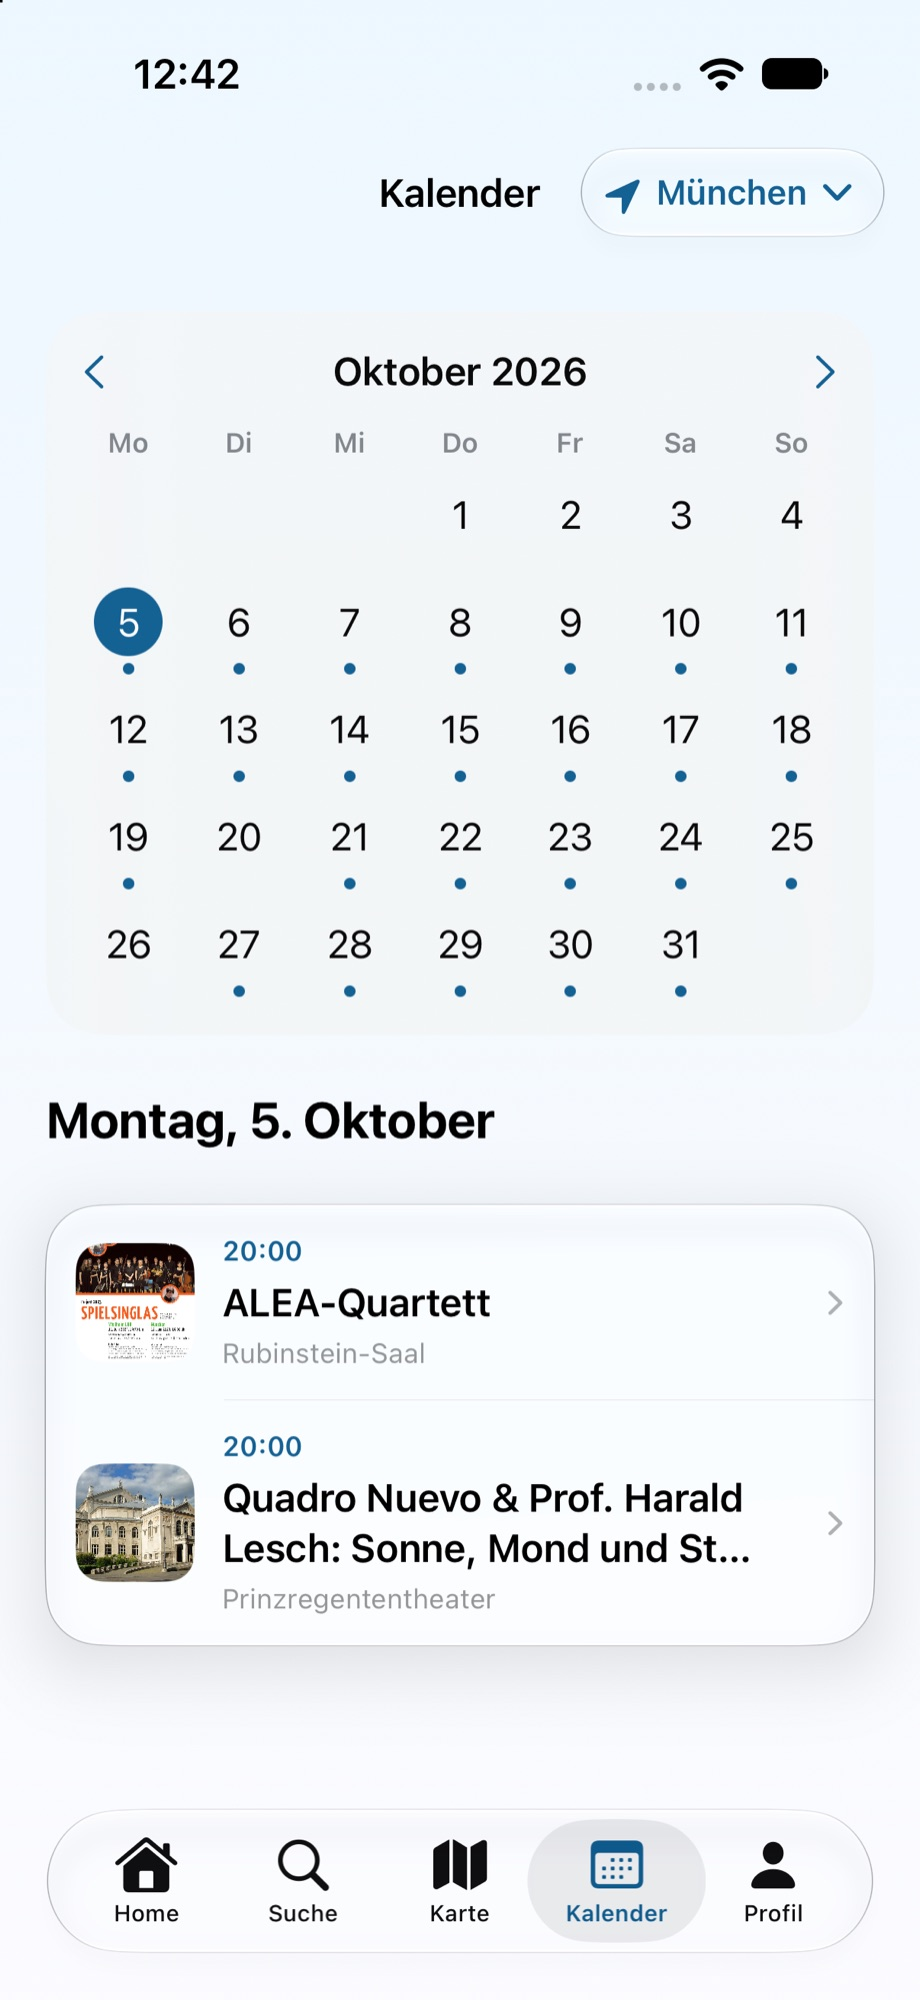
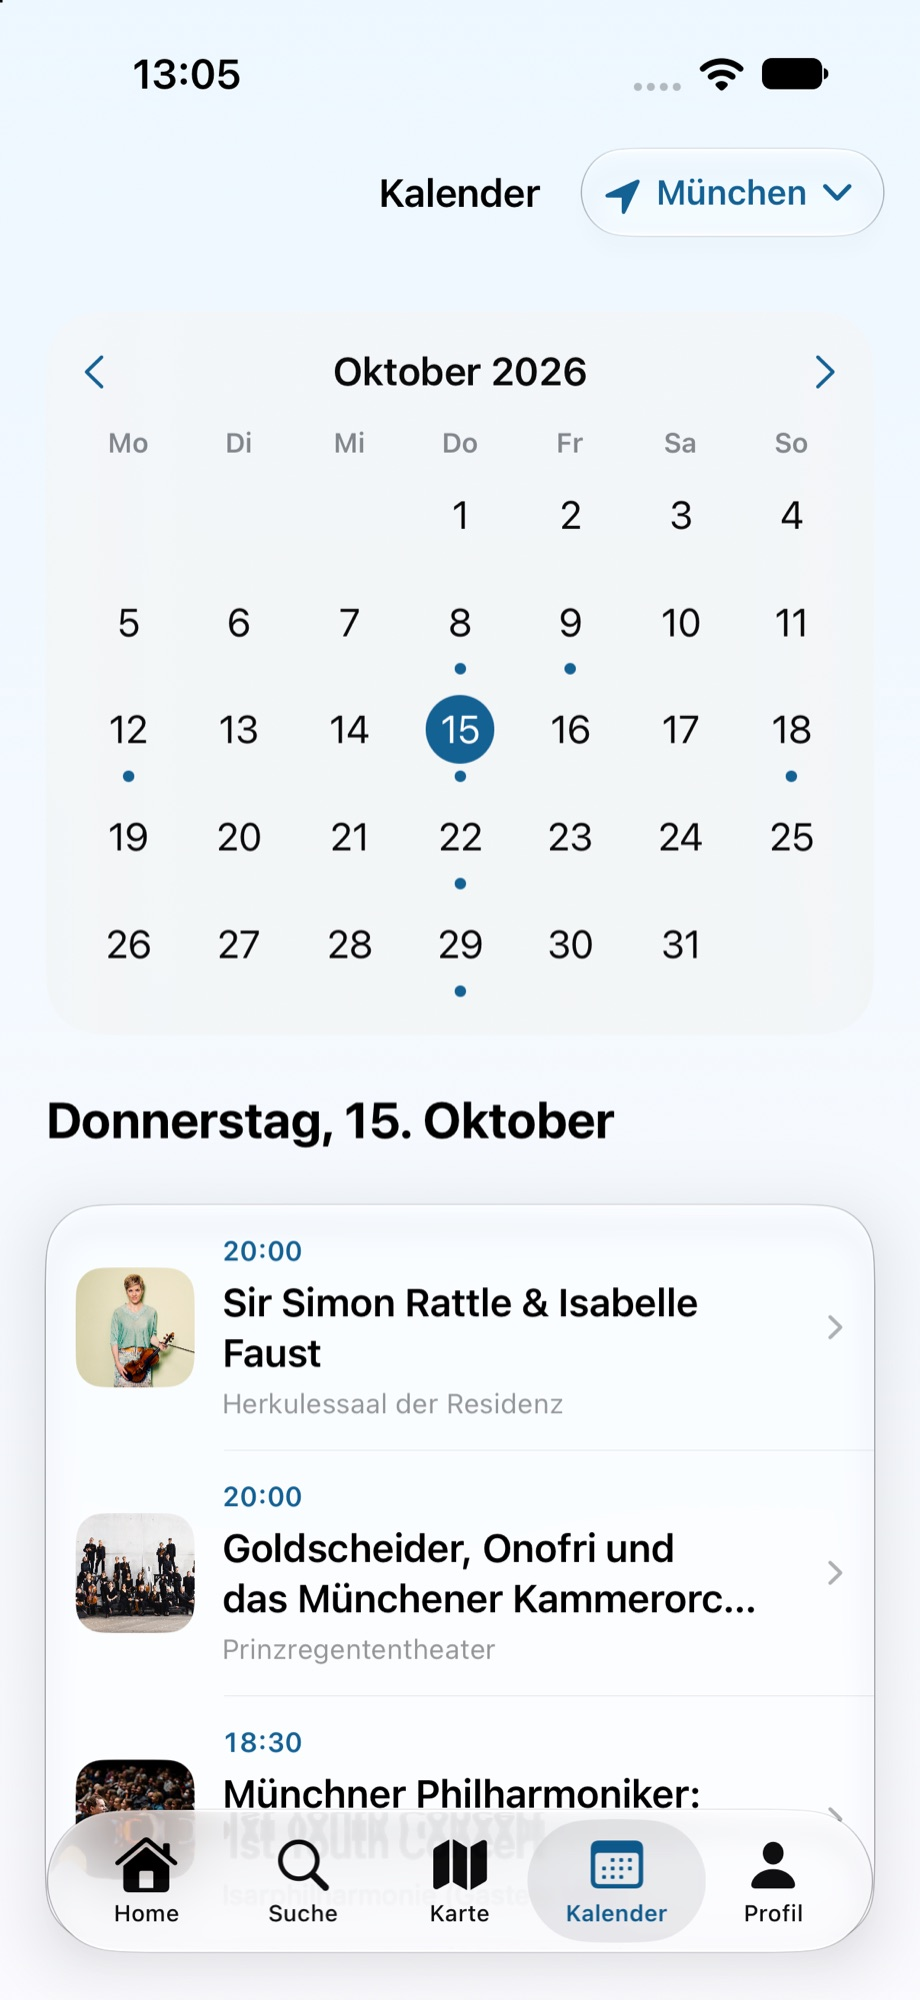
Promote-Vorschau: abgerundete Ecken, Münchner Saison-Highlights, echter iOS-Sperrbildschirm

diff --git a/admin/src/app/(organizer)/veranstalter/promote/placement-preview.tsx b/admin/src/app/(organizer)/veranstalter/promote/placement-preview.tsx
@@ -7,7 +7,7 @@ export type PreviewEvent = { title: string; startLabel: string; venueName: strin
 const PLACEMENT_TITLE: Record<string, string> = {
   standard: "Kalender · Tagesliste",
   featured: "Suche · Konzerte entdecken",
-  local_spotlight: "Home · Heute in München",
+  local_spotlight: "Home · Empfehlungs-Schiene",
   homepage_feature: "Home · Hero-Platzierung",
   push: "Push-Benachrichtigung",
 };
@@ -24,12 +24,13 @@ const pct = (v: number, base: number) => `${(v / base) * 100}%`;
 // so exakt mit dem Screenshot.
 const px = (v: number) => `${(v / W) * 100}cqw`;
 
-type Slot = { shot: string; x: number; y: number; w: number; h: number; bg?: string };
+type Slot = { shot: string; x: number; y: number; w: number; h: number; bg?: string; radius?: number };
 const SLOTS: Record<string, Slot> = {
-  homepage_feature: { shot: "home", x: 46, y: 284, w: 828, h: 512 },
+  homepage_feature: { shot: "home", x: 46, y: 284, w: 828, h: 512, radius: 55 },
   local_spotlight: { shot: "home", x: 36, y: 962, w: 468, h: 450, bg: "#F6F9FE" },
-  featured: { shot: "search", x: 46, y: 739, w: 544, h: 668 },
-  standard: { shot: "calendar", x: 52, y: 1214, w: 816, h: 176, bg: "#FCFDFE" },
+  featured: { shot: "search", x: 46, y: 406, w: 544, h: 668, radius: 52 },
+  // Innerhalb der Glasfläche der Tagesliste, unterhalb ihrer Rundung.
+  standard: { shot: "calendar", x: 62, y: 1236, w: 796, h: 212, bg: "#FCFDFE" },
 };
 
 /** Vorschau: pro Platzierungsart der echte App-Bereich, das gewählte Event an
@@ -52,7 +53,7 @@ export function PlacementPreview({ placement, event }: { placement: string; even
               <img src={`/app-preview/${slot.shot}.jpg`} alt="" className="absolute inset-0 size-full" />
               <div
                 className="absolute overflow-hidden"
-                style={{ left: pct(slot.x, W), top: pct(slot.y, H), width: pct(slot.w, W), height: pct(slot.h, H), background: slot.bg }}
+                style={{ left: pct(slot.x, W), top: pct(slot.y, H), width: pct(slot.w, W), height: pct(slot.h, H), background: slot.bg, borderRadius: slot.radius ? px(slot.radius) : undefined }}
               >
                 {placement === "homepage_feature" && <Hero event={e} />}
                 {placement === "local_spotlight" && <RailCard event={e} />}
@@ -106,7 +107,7 @@ function Heart({ right = 14, top = 14 }: { right?: number; top?: number }) {
 // HeroEventView in HomeView.swift
 function Hero({ event }: { event: PreviewEvent }) {
   return (
-    <div className="relative size-full" style={{ borderRadius: px(55) }}>
+    <div className="relative size-full overflow-hidden" style={{ borderRadius: px(55) }}>
       <Cover event={event} className="absolute inset-0" />
       <div className="absolute inset-x-0 bottom-0" style={{ height: "72%", background: "linear-gradient(to bottom, transparent 0%, rgba(0,0,0,.16) 28%, rgba(0,0,0,.86) 100%)" }} />
       <AdBadge left={18} top={18} />
@@ -123,7 +124,7 @@ function Hero({ event }: { event: PreviewEvent }) {
 function RailCard({ event }: { event: PreviewEvent }) {
   return (
     <div className="relative size-full">
-      <div className="absolute" style={{ left: px(10), top: px(9), width: px(448), height: px(250) }}>
+      <div className="absolute overflow-hidden" style={{ left: px(10), top: px(9), width: px(448), height: px(250), borderRadius: px(50) }}>
         <Cover event={event} className="size-full" />
         <AdBadge left={0} top={0} />
         <Heart />
@@ -139,7 +140,7 @@ function RailCard({ event }: { event: PreviewEvent }) {
 // SearchDiscoveryEventCard in SearchView.swift (238×292 pt)
 function DiscoveryCard({ event }: { event: PreviewEvent }) {
   return (
-    <div className="relative size-full" style={{ borderRadius: px(50), boxShadow: "0 6px 12px rgba(0,0,0,.12)" }}>
+    <div className="relative size-full overflow-hidden" style={{ borderRadius: px(52) }}>
       <Cover event={event} className="absolute inset-0" />
       <div className="absolute inset-0" style={{ background: "linear-gradient(to bottom, transparent, rgba(0,0,0,.18), rgba(0,0,0,.92))" }} />
       <AdBadge left={18} top={18} />
@@ -152,39 +153,50 @@ function DiscoveryCard({ event }: { event: PreviewEvent }) {
   );
 }
 
-// CalendarEventRow in EventCalendarView.swift
+// CalendarEventRow in EventCalendarView.swift (Koordinaten relativ zum Slot)
 function CalendarRow({ event }: { event: PreviewEvent }) {
   const time = event.startLabel.match(/\d{1,2}:\d{2}/)?.[0] ?? "";
   return (
     <div className="relative size-full">
-      <div className="absolute overflow-hidden" style={{ left: px(24), top: px(29), width: px(118), height: px(118), borderRadius: px(28) }}>
+      <div className="absolute overflow-hidden" style={{ left: px(14), top: px(40), width: px(118), height: px(118), borderRadius: px(28) }}>
         <Cover event={event} className="size-full" />
         <AdBadge left={0} top={0} />
       </div>
-      <div className="absolute" style={{ left: px(171), top: px(18), right: px(64) }}>
-        <p className="font-bold" style={{ fontSize: px(32), color: "#1a5f9a" }}>{time || "–"}</p>
-        <p className="line-clamp-2 font-semibold leading-[1.15]" style={{ fontSize: px(44), color: "#000", marginTop: px(6) }}>{event.title}</p>
-        <p className="line-clamp-1" style={{ fontSize: px(34), color: "#8a8a8f", marginTop: px(6) }}>{event.venueName}</p>
+      <div className="absolute" style={{ left: px(161), top: px(6), right: px(70) }}>
+        <p className="font-bold" style={{ fontSize: px(31), color: "#1a5f9a" }}>{time || "–"}</p>
+        <p className="line-clamp-2 font-semibold leading-[1.15]" style={{ fontSize: px(43), color: "#000", marginTop: px(8) }}>{event.title}</p>
+        <p className="line-clamp-1" style={{ fontSize: px(33), color: "#8a8a8f", marginTop: px(8) }}>{event.venueName}</p>
       </div>
-      <span className="absolute text-[#c4c4c8]" style={{ right: px(26), top: px(70), fontSize: px(40) }}>›</span>
+      <span className="absolute text-[#c4c4c8]" style={{ right: px(20), top: px(82), fontSize: px(44) }}>›</span>
     </div>
   );
 }
 
-// Push: iOS-Systemoberfläche (Sperrbildschirm), kein Teil der App-UI.
+// Push: echter iOS-27-Sperrbildschirm (Screenshot, Standard-Hintergrund,
+// Dynamic Island); die Benachrichtigung liegt wie in iOS unten über dem Hintergrund.
 function LockScreen({ event }: { event: PreviewEvent }) {
   return (
-    <div className="flex h-[560px] flex-col items-center bg-gradient-to-b from-[#3b3a6e] via-[#26254f] to-[#15142f] text-white">
-      <p className="mt-14 text-[11px] font-semibold text-white/80">Montag, 5. Oktober</p>
-      <p className="text-[54px] font-light leading-[58px]">9:41</p>
-      <div className="mt-8 w-[236px] rounded-[20px] bg-white/20 p-3 backdrop-blur">
-        <div className="flex items-center gap-2">
-          <Image src="/app-logo.svg" alt="" width={18} height={18} className="rounded-[5px]" />
-          <span className="text-[9px] font-semibold uppercase tracking-wide text-white/80">Klangradar</span>
-          <span className="ml-auto text-[9px] text-white/70">jetzt</span>
+    <div className="relative" style={{ containerType: "inline-size", aspectRatio: `${W} / ${H}` }}>
+      {/* eslint-disable-next-line @next/next/no-img-element */}
+      <img src="/app-preview/lock.jpg" alt="" className="absolute inset-0 size-full" />
+      <div
+        className="absolute text-white"
+        style={{
+          left: pct(46, W), width: pct(828, W), top: pct(1530, H), padding: `${px(34)} ${px(38)}`, borderRadius: px(62),
+          background: "rgba(72,68,64,.46)", backdropFilter: "blur(30px) saturate(1.6)", WebkitBackdropFilter: "blur(30px) saturate(1.6)",
+          boxShadow: "inset 0 0 0 1px rgba(255,255,255,.12)",
+        }}
+      >
+        <div className="flex items-center" style={{ gap: px(22) }}>
+          <Image src="/app-logo.svg" alt="" width={72} height={72} style={{ width: px(88), height: px(88), borderRadius: px(20) }} />
+          <div className="min-w-0 flex-1">
+            <p className="line-clamp-1 font-semibold" style={{ fontSize: px(38) }}>{event.title}</p>
+            <p className="line-clamp-2" style={{ fontSize: px(35), opacity: 0.85, marginTop: px(4), lineHeight: 1.25 }}>
+              Neu in Klangradar · {event.startLabel}{event.venueName ? ` · ${event.venueName}` : ""}
+            </p>
+          </div>
+          <span style={{ fontSize: px(30), opacity: 0.6, alignSelf: "flex-start" }}>jetzt</span>
         </div>
-        <p className="mt-1.5 line-clamp-2 text-[11px] font-bold leading-4">Neu für dich: {event.title}</p>
-        <p className="mt-0.5 line-clamp-2 text-[10px] leading-[13px] text-white/90">{event.startLabel}{event.venueName ? ` · ${event.venueName}` : ""}</p>
       </div>
     </div>
   );
